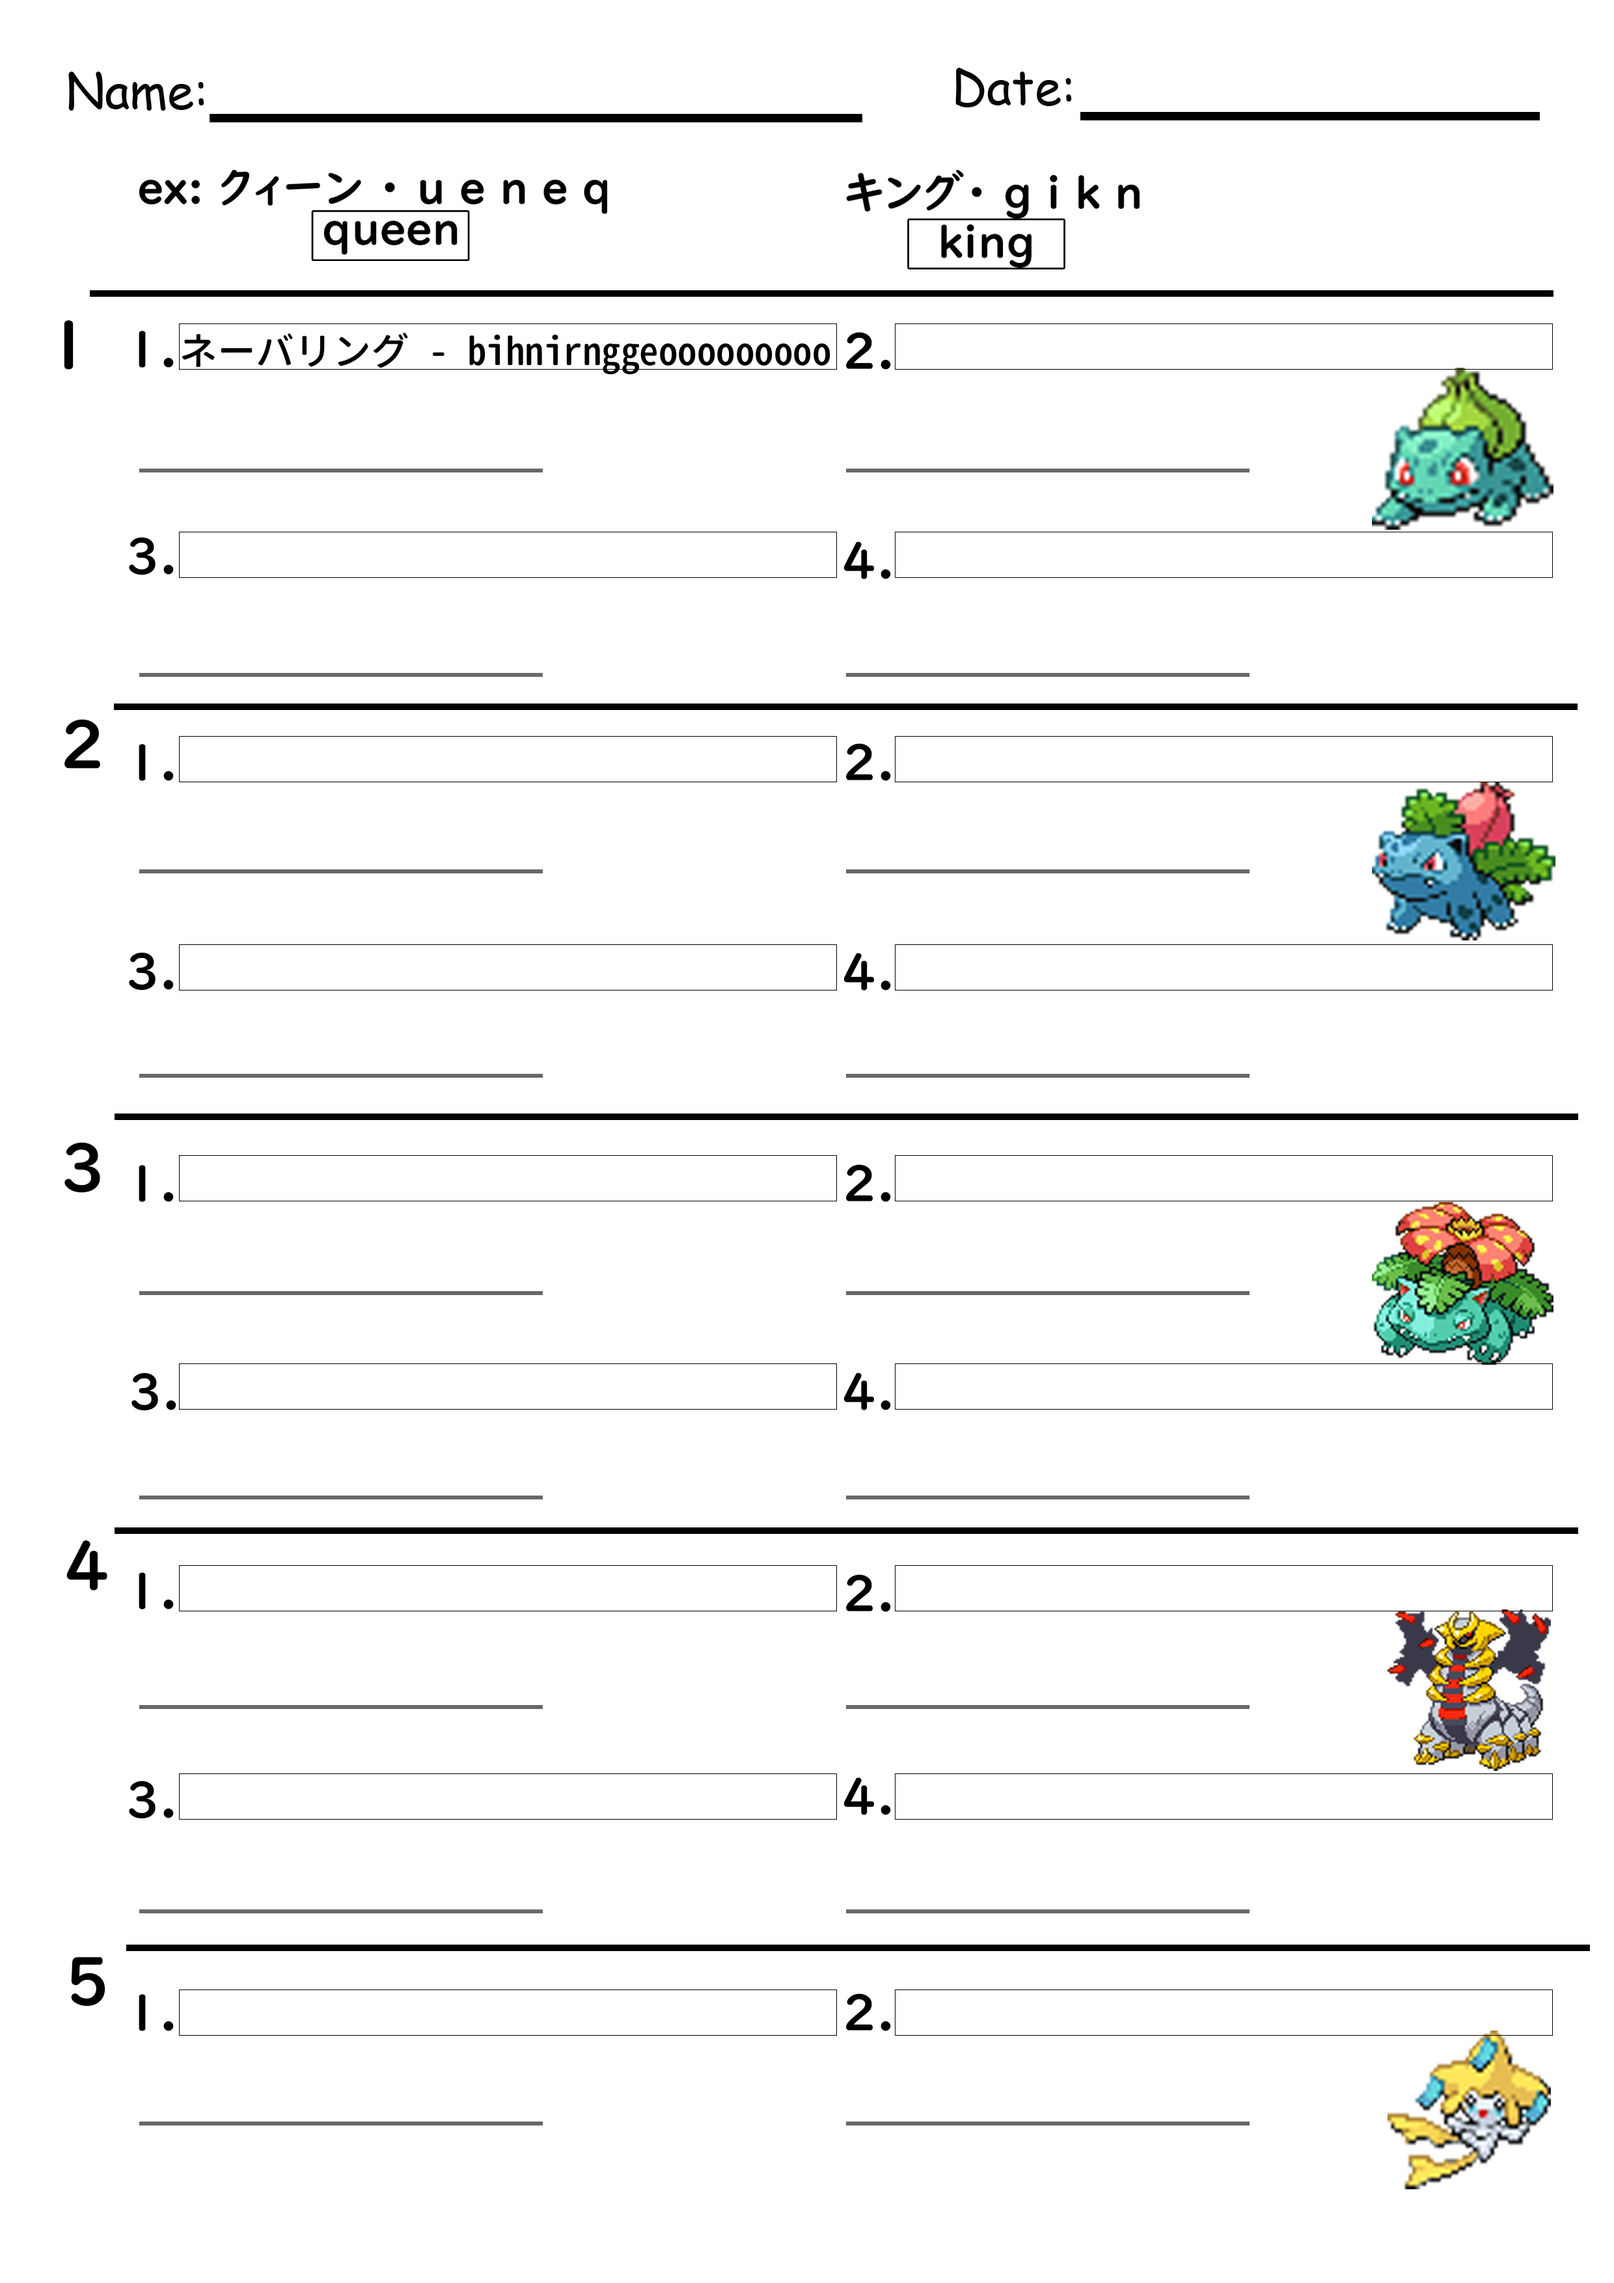
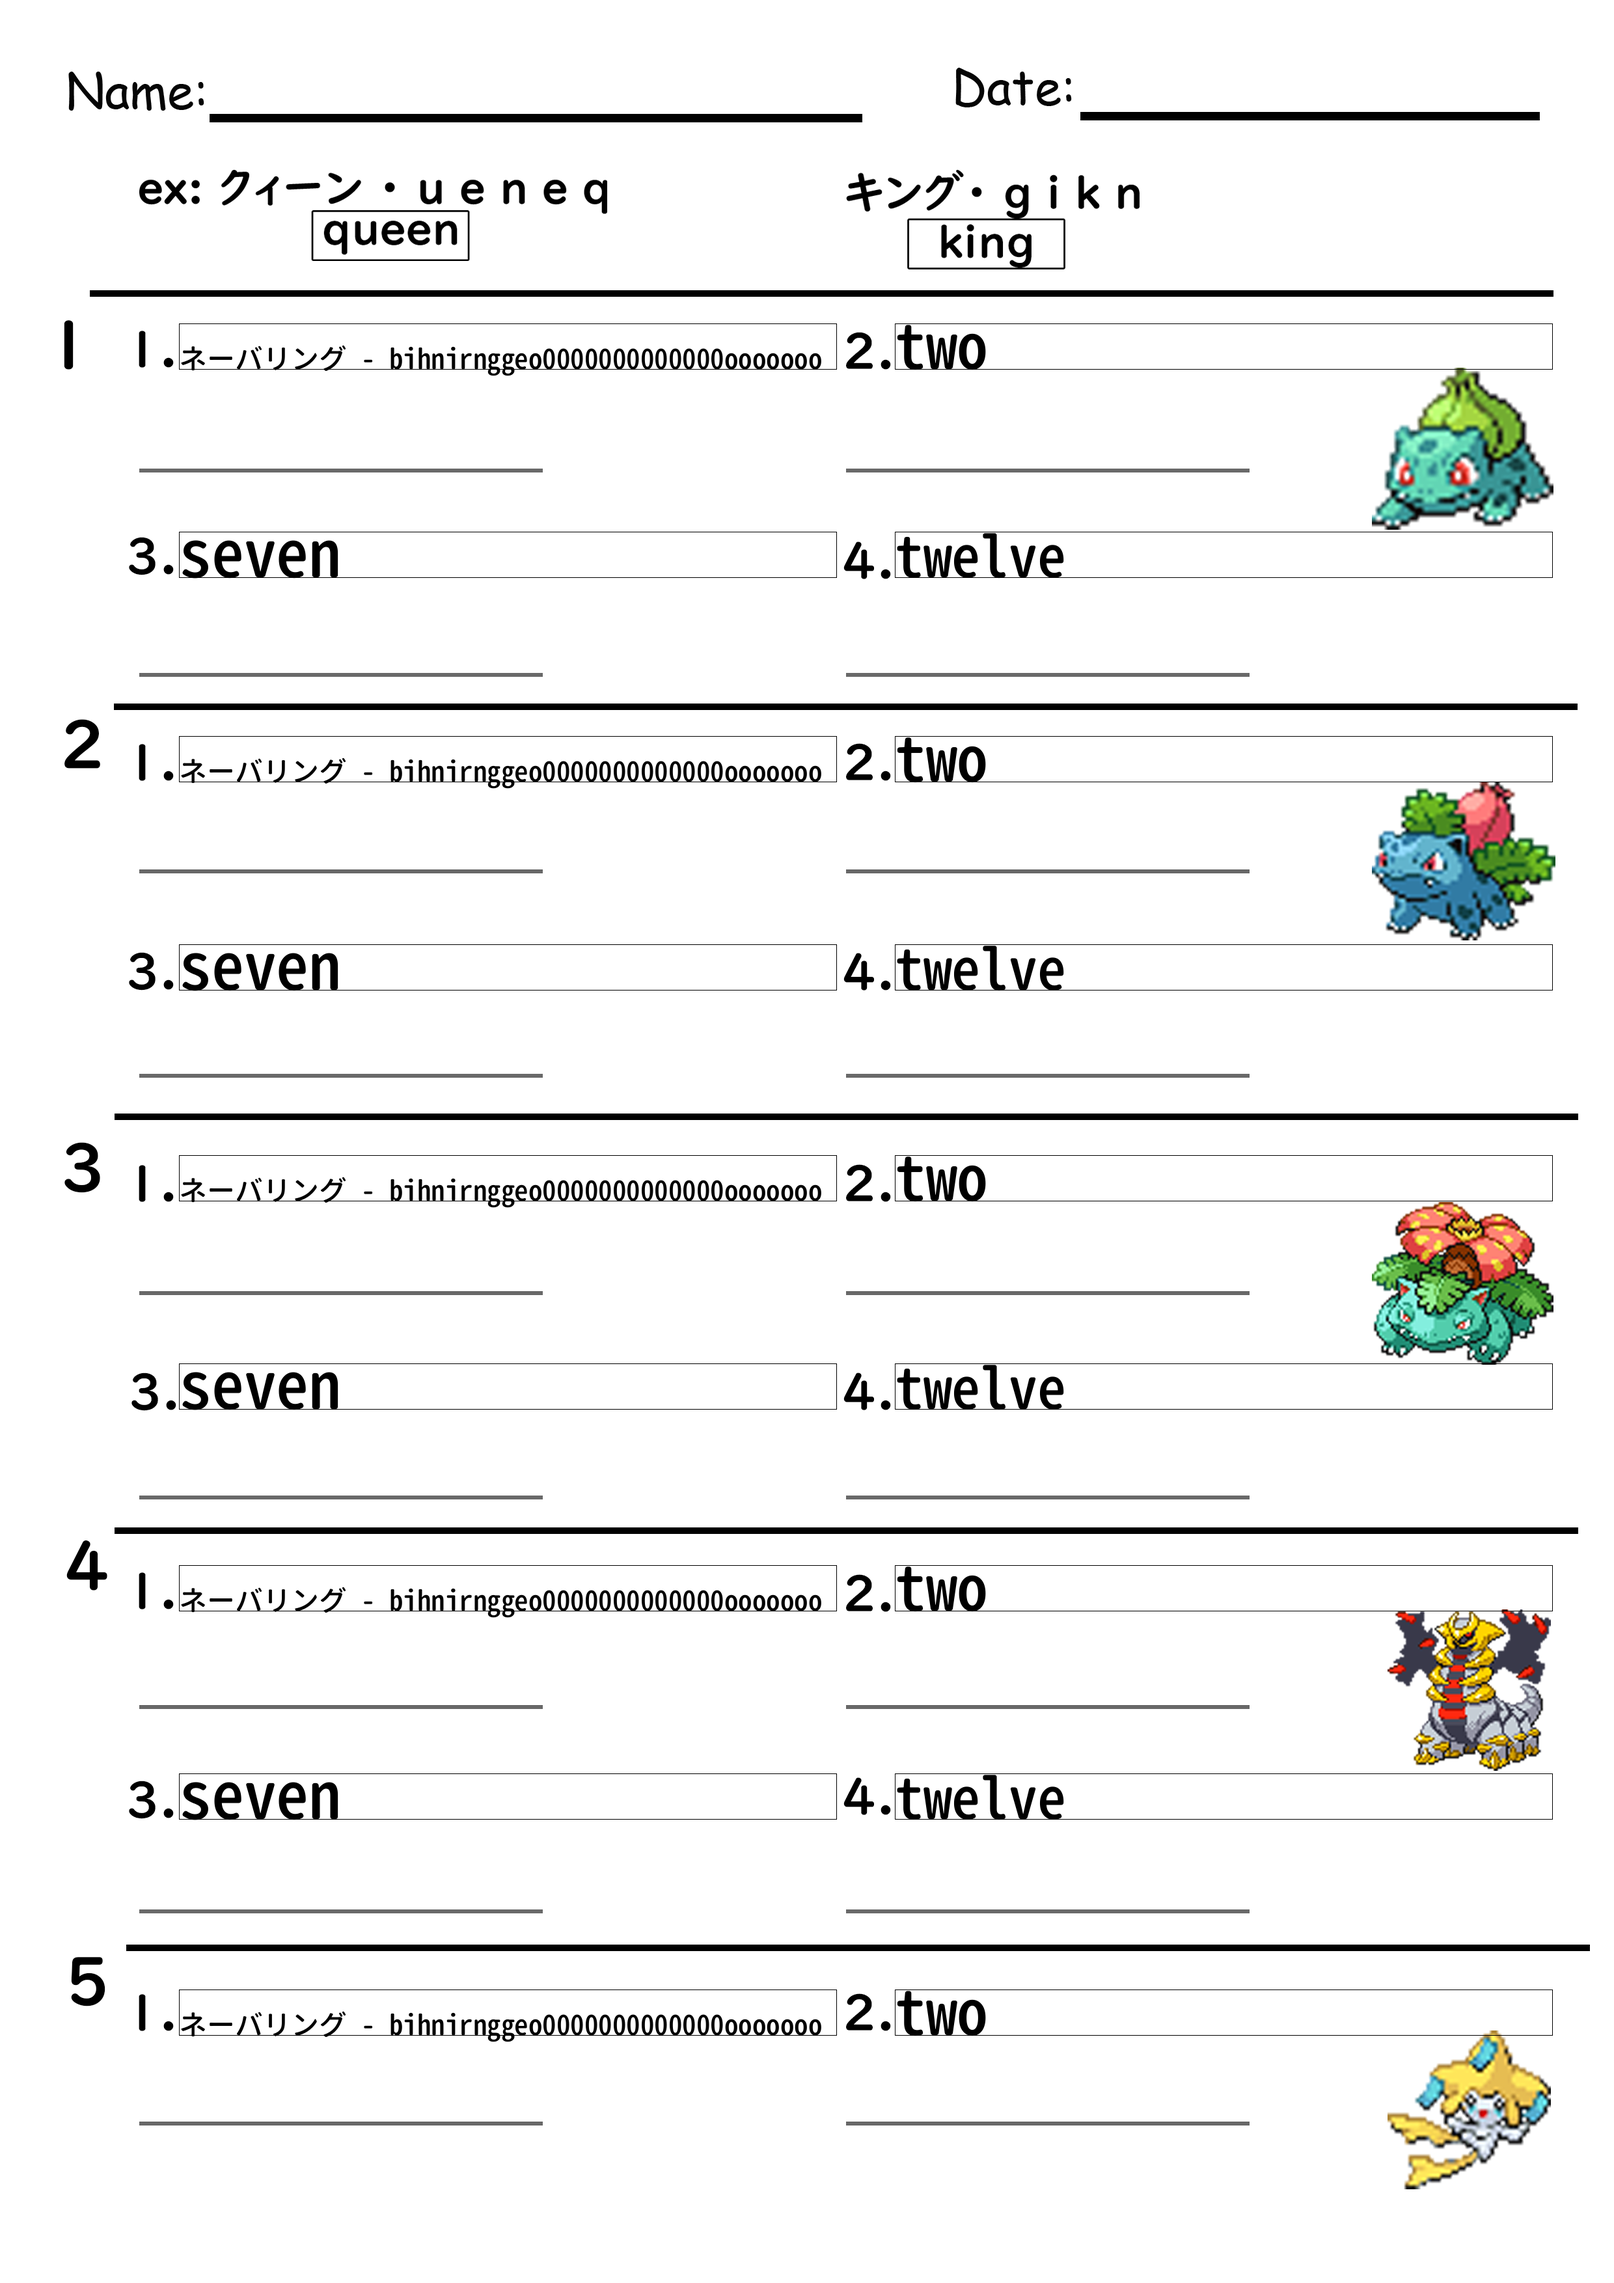
figuring out logic for writing thru each list to PNG, have it so it writes TO the PNG, but is grabbing the wrong values

diff --git a/pyScripts/addToPNGScript.py b/pyScripts/addToPNGScript.py
@@ -81,7 +81,7 @@ def fitSingleLine(draw, text, box, font_path, maxSize=100):
 
     font_size = maxSize
 
-    while font_size > 5:
+    while font_size > 10:
         font = ImageFont.truetype(font_path, font_size)
 
         bbox = draw.textbbox((0, 0), text, font=font)
@@ -97,26 +97,32 @@ def fitSingleLine(draw, text, box, font_path, maxSize=100):
     
 def drawText(words):
 
+    levelsDict = {(i+1):v for i, v in enumerate([questionBoxDict, levelTwoBoxes, levelThreeBoxes, levelFourBoxes, levelFiveBoxes])}
+
     wordsList = words
-    testWord = wordsList[0]
-    box = questionBoxDict[1]
 
-    
-    fontSize = 100
-    font, textWidth, textHeight = fitSingleLine(draw, testWord, box, "../japaneseMonospace.ttf", maxSize = 100)
+    for dictCount in range(len(levelsDict)): #loops thru all boxes
 
-    (x1, y1), (x2, y2) = box
+        dictCount += 1
+        box = levelsDict[dictCount]
+        #print("box# ", str(box))
 
-    x = box[0][0]
-    y = box[0][1]
-    
+        for i in range(len(wordsList["Level "+str(dictCount)+":"])): #loops thru each level
+            key = i + 1
+            testWord = wordsList["Level "+str(key)+":"][i]
+            boxList = box[key]
+            print(key, " ", i)
+            font, textWidth, textHeight = fitSingleLine(draw, testWord, boxList, "../japaneseMonospace.ttf", maxSize = 100)
 
-    #drawTextBox(questionBoxDict, boxDistanceListY1)
+            x = boxList[0][0]
+            y = boxList[1][1]
+            
+            draw.text((x, y), testWord, font = font, anchor = "ls", fill = "black", encoding = "UTF-8")
+            
 
-    draw.text((x, y), testWord, font = font, fill = "black", encoding = "UTF-8")
-
-wordTestList = ["ネーバリング - bihnirnggeooooooooo", "test"]
-drawText(wordTestList)
+wordTestDict = {"Level 1:": ["ネーバリング - bihnirnggeo0000000000000ooooooo", "test", "test 1", "テスト３"], "Level 2:": ["one", "two", "three", "four"],
+                "Level 3:": ["five", "six", "seven", "eight"], "Level 4:": ["nine", "ten", "eleven", "twelve"], "Level 5:": ["thirteen", "fourteen"]}
+drawText(wordTestDict)
 
 
 

diff --git a/pyScripts/soundOutTranslationScript.py b/pyScripts/soundOutTranslationScript.py
@@ -79,11 +79,11 @@ def formatTextOutput(results): #sets the text up for the results page
     lines = []
 
     levels = [ 
-        ("levelOne", "level 1 words:"),
-        ("levelTwo", "level 2 words:"),
-        ("levelThree", "level 3 words:"),
-        ("levelFour", "level 4 words:"),
-        ("levelFive", "level 5 words:")
+        ("levelOne", "Level 1:"),
+        ("levelTwo", "Level 2:"),
+        ("levelThree", "Level 3:"),
+        ("levelFour", "Level 4:"),
+        ("levelFive", "Level 5:")
     ]
 
     for key, title in levels:
@@ -91,7 +91,7 @@ def formatTextOutput(results): #sets the text up for the results page
         words = results[key]["randomizedWords"]
         kana = results[key]["kana"]
         for i, (word, kana_text) in enumerate(zip(words, kana), start = 1):
-            lines.append(f"{i}. {kana_text} - {word}")
+            lines.append(f"{kana_text} - {word}")
         lines.append("") #adds blank line
 
     return "\n".join(lines)
